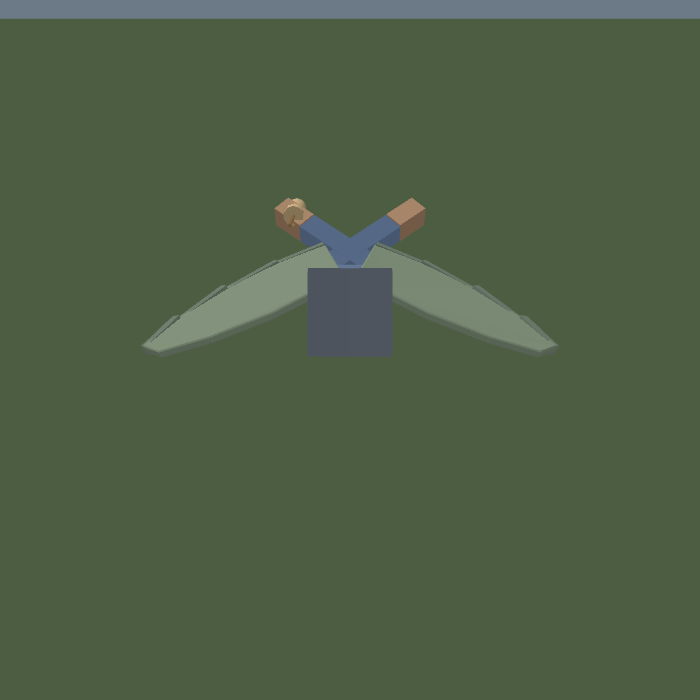
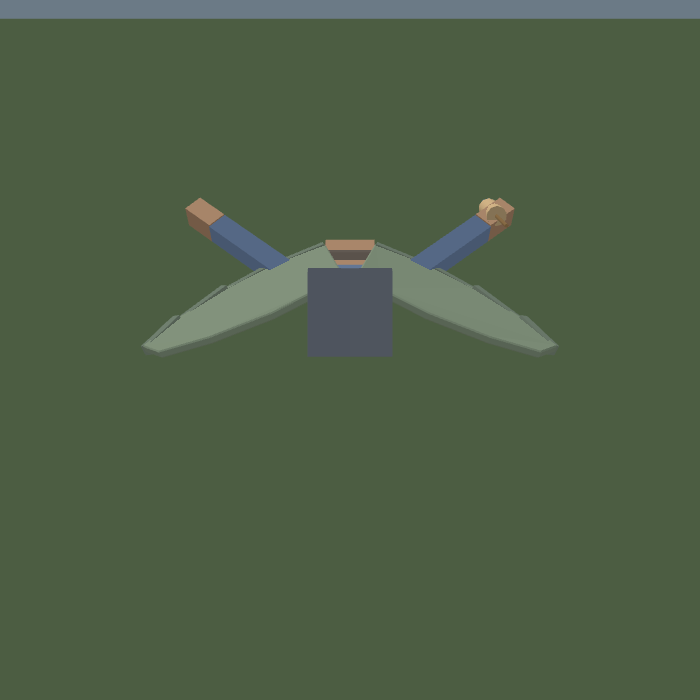
The glide tuck crossed the legs at the ankle
Bringing the legs together in a glide was meant to stop them reading as
two blocks end-on. Taken this far it did the opposite: each foot swings
50 mm inward across hips that are 44 mm apart, so the ankles crossed by
31 mm and the pair drew as one featureless rectangle — which from
directly behind is the largest thing on the character. The other way
round leaves 145 mm between the boots, which is about what a person's
feet do in the air and reads as a pair of legs.

Claude-Session: https://claude.ai/code/session_01AbPj1ecgWZX5NRERgq23EA

Changed region(s): [[0.39, 0.27, 0.75, 0.39], [0.27, 0.27, 0.42, 0.39]]

diff --git a/src/player/avatar.js b/src/player/avatar.js
@@ -929,8 +929,16 @@ export class Avatar {
     // is exactly the angle you see yourself from in third person.
     this.legL.pivot.rotation.x -= 0.34 * tuck;
     this.legR.pivot.rotation.x -= 0.34 * tuck;
-    this.legL.pivot.rotation.z = this.legL.pivot.rotation.z * (1 - tuck) + 0.06 * tuck;
-    this.legR.pivot.rotation.z = this.legR.pivot.rotation.z * (1 - tuck) - 0.06 * tuck;
+    //
+    // Apart at the ankle, not crossed at it. Bringing the legs together was
+    // meant to stop them reading as two blocks end-on; taken this far it did
+    // the opposite. Each foot swings 50 mm and the hips are only 44 mm apart,
+    // so the ankles crossed by 31 mm and the pair drew as one featureless
+    // rectangle — which from directly behind is the largest thing on the
+    // character. The other way round leaves 145 mm between the boots, which is
+    // roughly what a person's feet do in the air and reads as a pair of legs.
+    this.legL.pivot.rotation.z = this.legL.pivot.rotation.z * (1 - tuck) - 0.06 * tuck;
+    this.legR.pivot.rotation.z = this.legR.pivot.rotation.z * (1 - tuck) + 0.06 * tuck;
 
     // The nose takes the colour of the slot you are on, so what is in your
     // hand and what is lit in the hotbar are visibly the same rocket.
